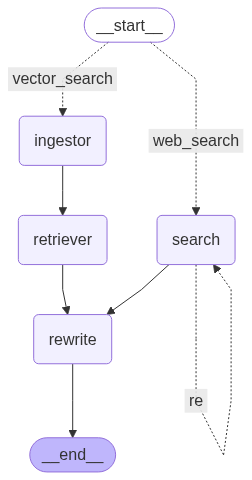
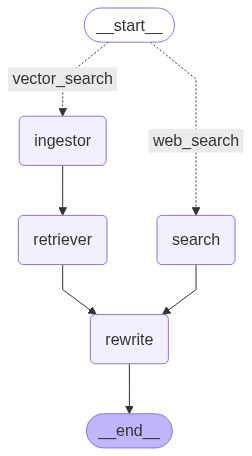
Update : Looping on search react agent

diff --git a/src/graphs/builder.py b/src/graphs/builder.py
@@ -59,17 +59,19 @@ def _build_base_graph():
 
     builder.add_edge("ingestor", "retriever")
     # builder.add_conditional_edges("generator", tools_condition)
-    builder.add_conditional_edges(
-        "search", 
-        should_continue,
-        {
-            "re": "search", 
-            "fin": "rewrite", 
-        },
-    )
+    # builder.add_conditional_edges(
+    #     "search", 
+    #     should_continue,
+    #     {
+    #         "re": "search", 
+    #         "fin": "rewrite", 
+    #     },
+    # )
     # builder.add_edge("search", END)
-    builder.add_edge("retriever", "rewrite")
+
+    # Remove conditional edge; add normal edge from 'search' to 'rewrite'
     builder.add_edge("search", "rewrite")
+    builder.add_edge("retriever", "rewrite")
     builder.add_edge("rewrite", END)
 
     return builder
